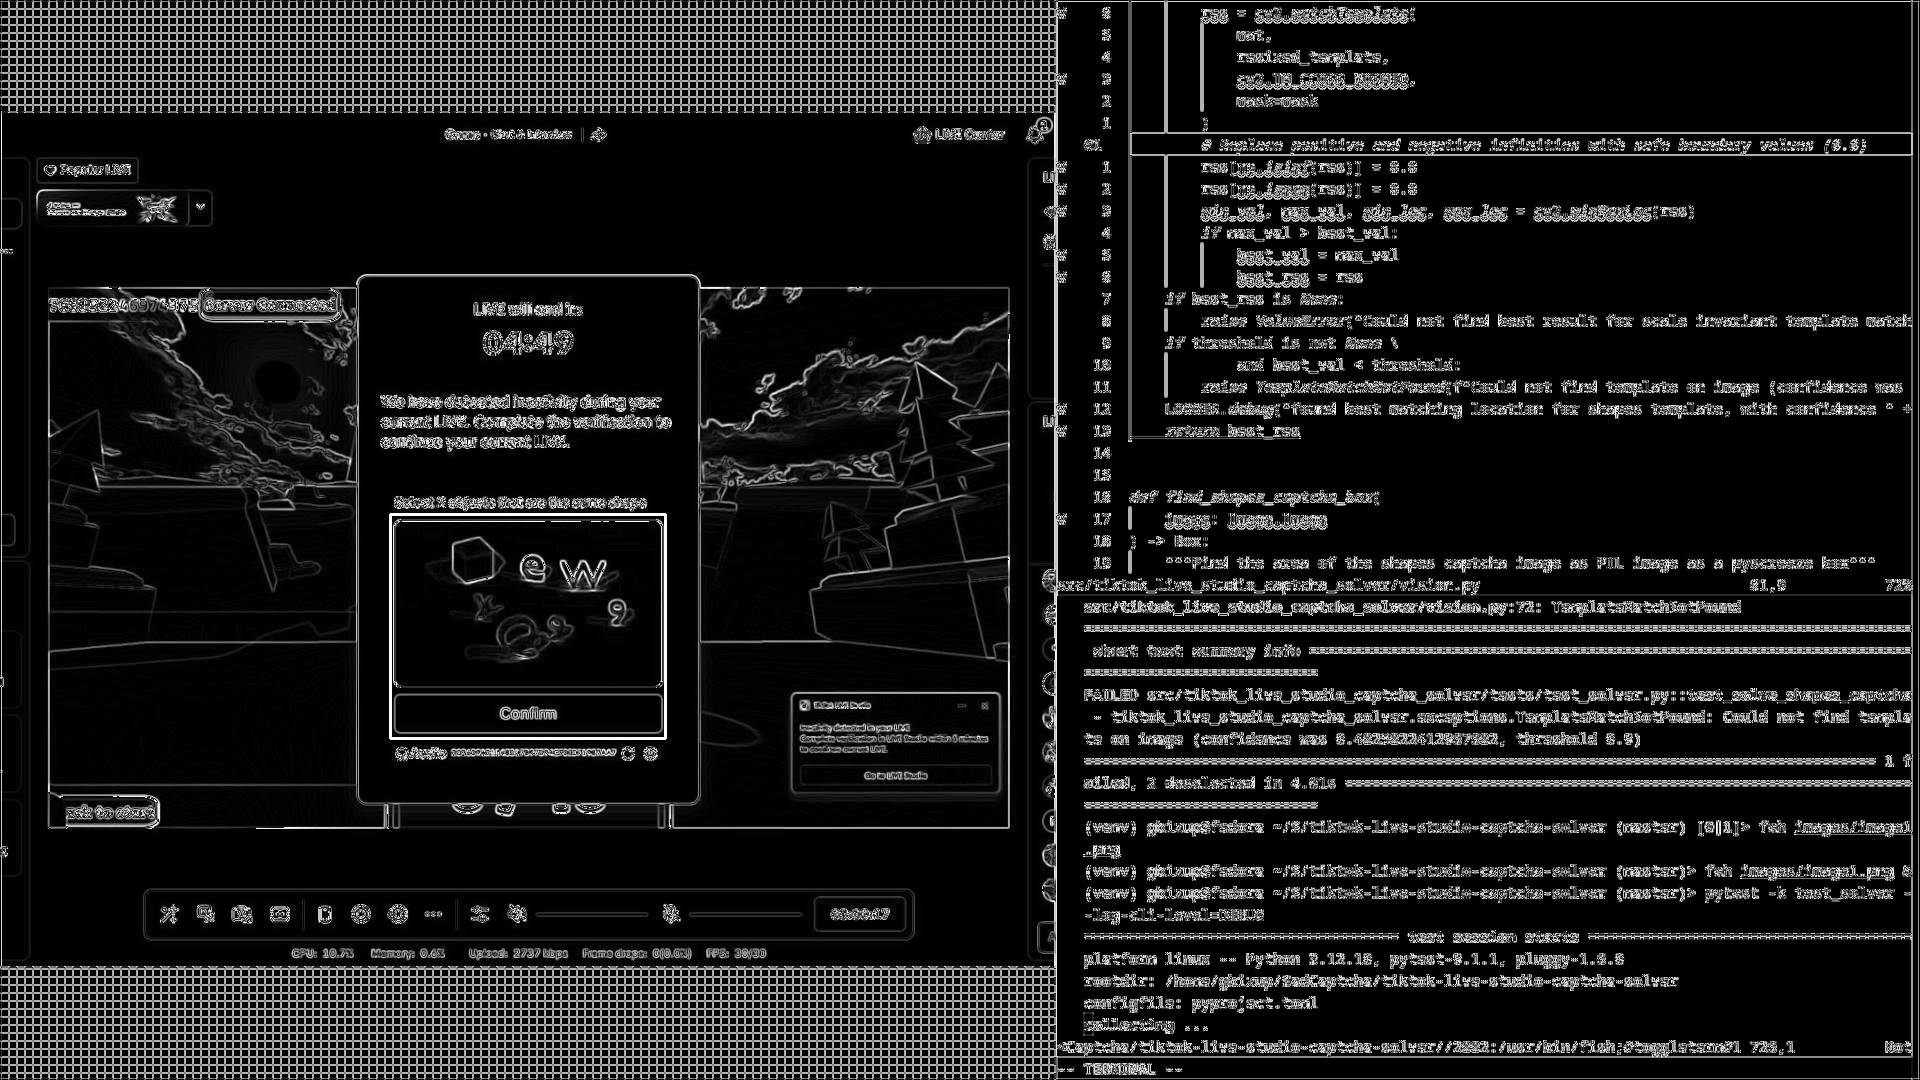
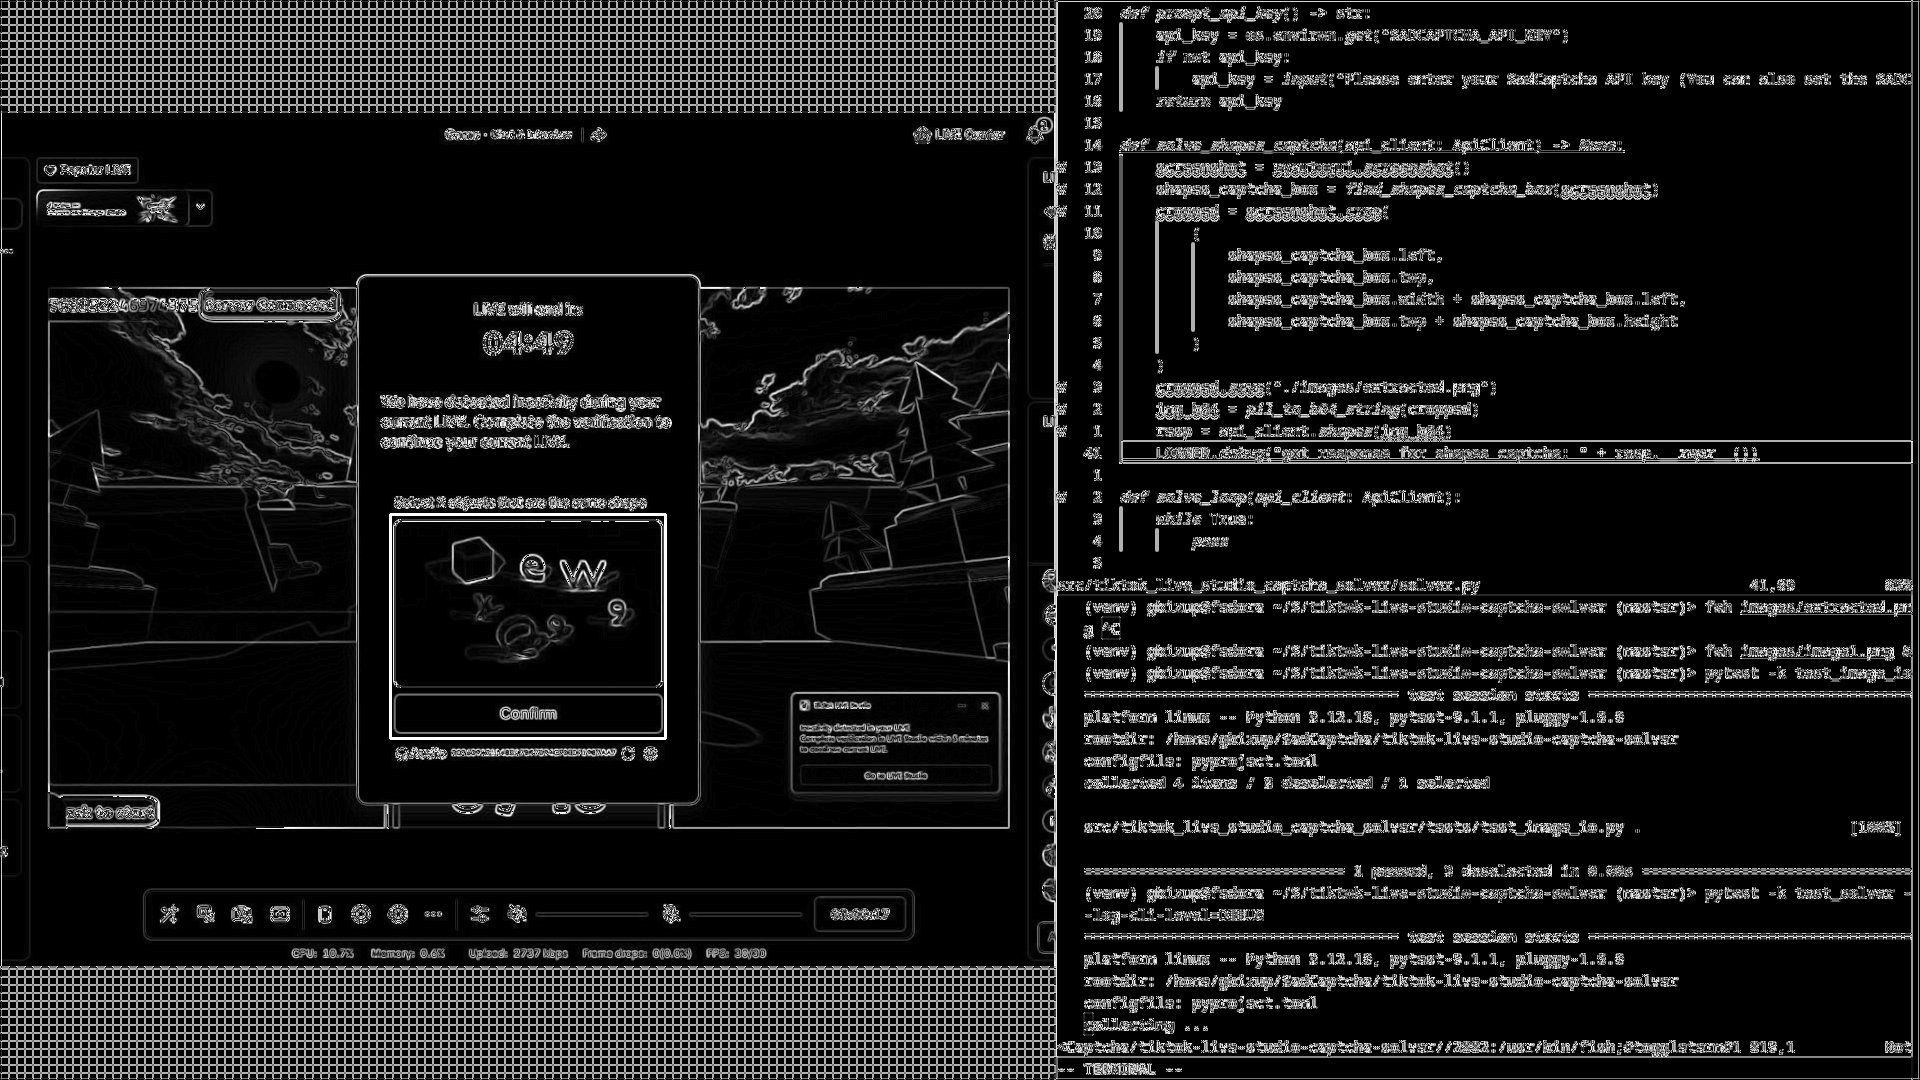
send shapes challenge to API

Changed region(s): [[0.5625, 0.0, 1.0, 0.825], [0.9062, 0.9472, 0.9375, 0.9778]]

diff --git a/src/tiktok_live_studio_captcha_solver/solver.py b/src/tiktok_live_studio_captcha_solver/solver.py
@@ -1,3 +1,4 @@
+from tiktok_live_studio_captcha_solver.image_io import pil_to_b64_string
 from .system import tkinter_is_installed
 
 if __name__ == "__main__":
@@ -35,7 +36,9 @@ def solve_shapes_captcha(api_client: ApiClient) -> None:
         )
     )
     cropped.save("./images/extracted.png")
-
+    img_b64 = pil_to_b64_string(cropped)
+    resp = api_client.shapes(img_b64)
+    LOGGER.debug("got response for shapes captcha: " + resp.__repr__())
 
 def solve_loop(api_client: ApiClient):
     while True:

diff --git a/src/tiktok_live_studio_captcha_solver/image_io.py b/src/tiktok_live_studio_captcha_solver/image_io.py
@@ -1,0 +1,14 @@
+import logging
+import base64
+from io import BytesIO
+from PIL import Image
+
+LOGGER = logging.getLogger(__name__)
+
+def pil_to_b64_string(image: Image.Image) -> str:
+    buffered = BytesIO()
+    image.save(buffered, format="PNG")
+    img_bytes = buffered.getvalue()
+    base64_string = base64.b64encode(img_bytes).decode("utf-8")
+    LOGGER.debug("converted PIL image to base64 string")
+    return base64_string

diff --git a/src/tiktok_live_studio_captcha_solver/tests/test_image_io.py b/src/tiktok_live_studio_captcha_solver/tests/test_image_io.py
@@ -1,0 +1,6 @@
+from PIL import Image
+from tiktok_live_studio_captcha_solver.image_io import pil_to_b64_string
+
+def test_pil_to_b64_string():
+    img = Image.open("./images/image1.png")
+    assert len(pil_to_b64_string(img)) > 0
